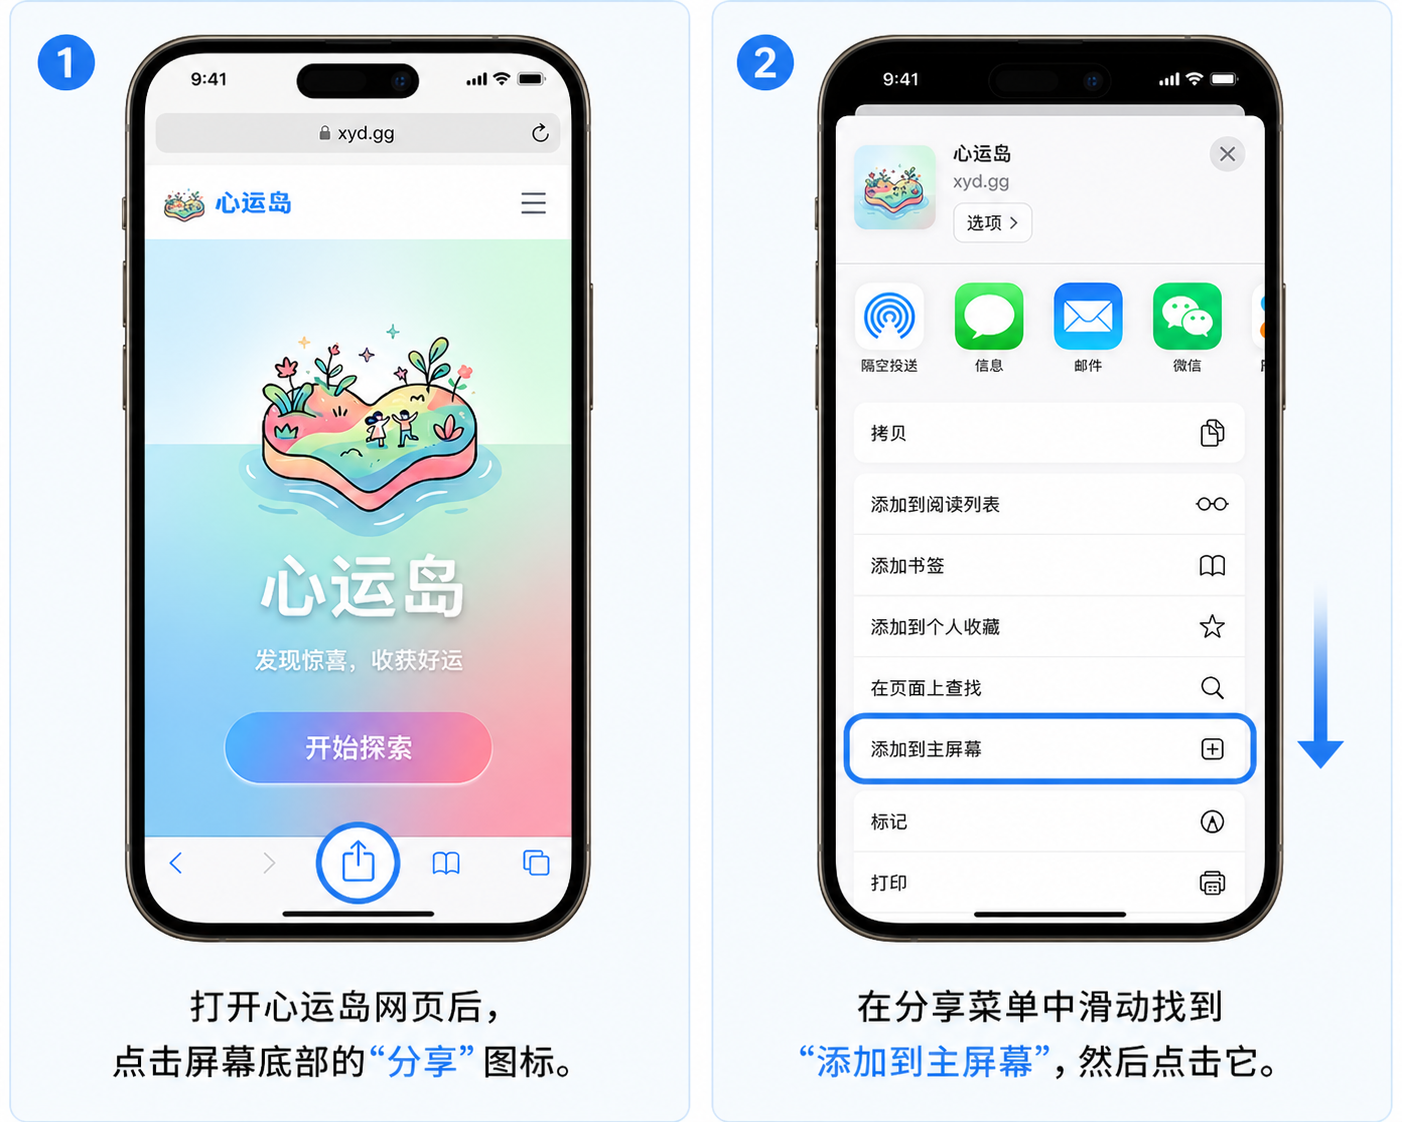
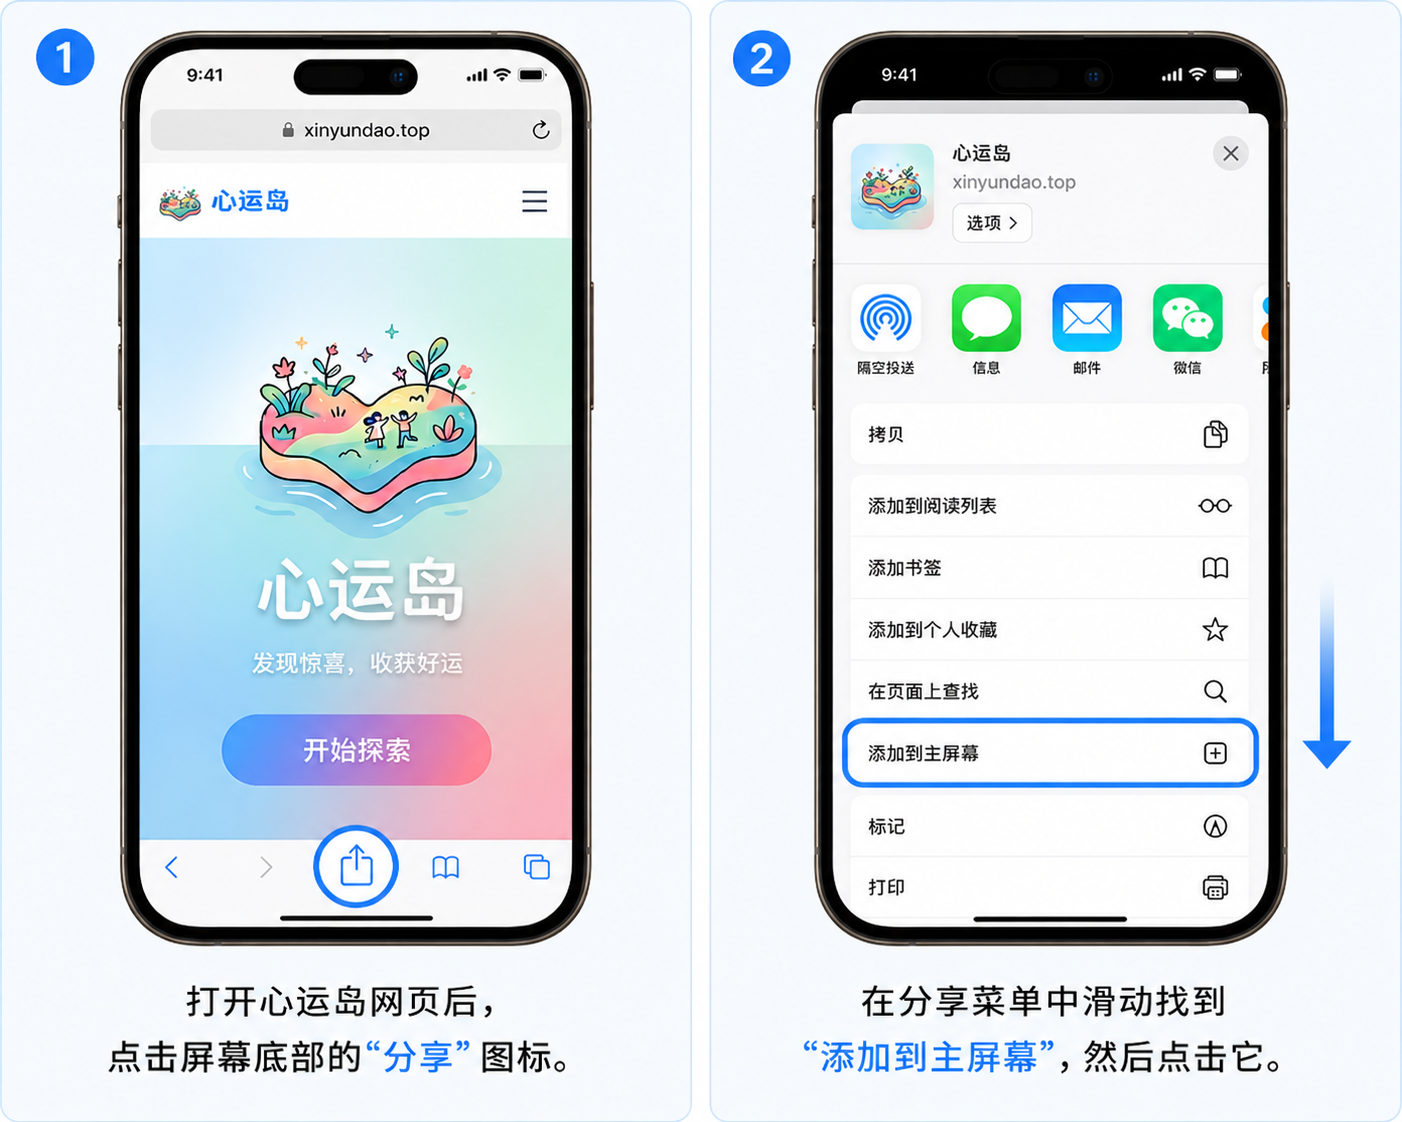
fix: 引导页细化（IOS和普通浏览器）、增加对用户机型检测

diff --git a/frontend/src/components/common/InstallBanner.vue b/frontend/src/components/common/InstallBanner.vue
@@ -23,16 +23,29 @@
         <button @click="dismissManual" class="close-btn">✕</button>
       </div>
       <div class="manual-steps">
-        <div class="step">
-          <span class="step-icon">1️⃣</span>
-          <span>点击底部<span class="em">分享</span>按钮</span>
-        </div>
-        <div class="step">
-          <span class="step-icon">2️⃣</span>
-          <span>滑动找到<span class="em">添加到主屏幕</span></span>
-        </div>
+        <!-- 根据平台动态显示不同步骤 -->
+        <template v-if="platform === 'ios'">
+          <div class="step">
+            <span class="step-icon">1️⃣</span>
+            <span>点击底部<span class="em">分享</span>按钮</span>
+          </div>
+          <div class="step">
+            <span class="step-icon">2️⃣</span>
+            <span>滑动找到<span class="em">添加到主屏幕</span></span>
+          </div>
+        </template>
+        <template v-else>
+          <div class="step">
+            <span class="step-icon">1️⃣</span>
+            <span>点击右上角<span class="em">菜单</span>按钮（⋮）</span>
+          </div>
+          <div class="step">
+            <span class="step-icon">2️⃣</span>
+            <span>选择<span class="em">添加到主屏幕</span>或<span class="em">安装应用</span></span>
+          </div>
+        </template>
         <div class="step-img">
-          <img src="/images/guide.png" alt="添加到主屏幕步骤" class="guide-img" />
+          <img :src="guideImage" alt="添加到主屏幕步骤" class="guide-img" />
         </div>
       </div>
       <p class="manual-note">将心运岛添加到主屏幕，使用更便捷~</p>
@@ -41,7 +54,7 @@
 </template>
 
 <script setup lang="ts">
-import { ref, onMounted, onUnmounted, provide } from 'vue'
+import { ref, onMounted, onUnmounted, provide, computed } from 'vue'
 
 interface BeforeInstallPromptEvent extends Event {
   prompt(): Promise<void>
@@ -59,7 +72,28 @@ let isPageVisible = true
 
 const manualVisible = ref(false)
 
-// 自动安装相关
+// ========== 平台检测 ==========
+const platform = ref<'ios' | 'browser'>('browser')
+
+const detectPlatform = () => {
+  const userAgent = navigator.userAgent.toLowerCase()
+  const isIOS = /iphone|ipad|ipod/.test(userAgent)
+  // 检测 iPadOS 13+ 伪装成 Mac 的情况
+  const isIPad =
+    /macintosh/.test(userAgent) && navigator.maxTouchPoints && navigator.maxTouchPoints > 2
+  if (isIOS || isIPad) {
+    platform.value = 'ios'
+  } else {
+    platform.value = 'browser'
+  }
+}
+
+// 根据平台动态选择引导图片
+const guideImage = computed(() => {
+  return platform.value === 'ios' ? '/images/guide.png' : '/images/guide1.png'
+})
+
+// ========== 自动安装相关 ==========
 const isAutoDismissedRecently = () => {
   const dismissedTime = localStorage.getItem('pwa_auto_dismissed')
   if (!dismissedTime) return false
@@ -122,7 +156,7 @@ const handleVisibilityChange = () => {
   isPageVisible = !document.hidden
 }
 
-// 手动引导相关
+// ========== 手动引导相关 ==========
 const isManualDismissedRecently = () => {
   const dismissed = localStorage.getItem('pwa_manual_dismissed')
   if (!dismissed) return false
@@ -153,6 +187,7 @@ const manualInstall = () => {
   }
 }
 
+// ========== 检测自动安装支持 ==========
 const checkAutoSupport = () => {
   let timeoutId: ReturnType<typeof setTimeout>
   const onBeforeInstall = (e: Event) => {
@@ -180,9 +215,12 @@ const handleManualInstallEvent = () => {
 }
 
 onMounted(() => {
-  // 调试代码（需要时取消注释即可强制显示自动横幅）
+  // 调试代码（取消注释可强制显示自动横幅）
   // autoSupported.value = true
   // autoVisible.value = true
+
+  // 检测平台类型
+  detectPlatform()
 
   if (isInstalled.value) return
 